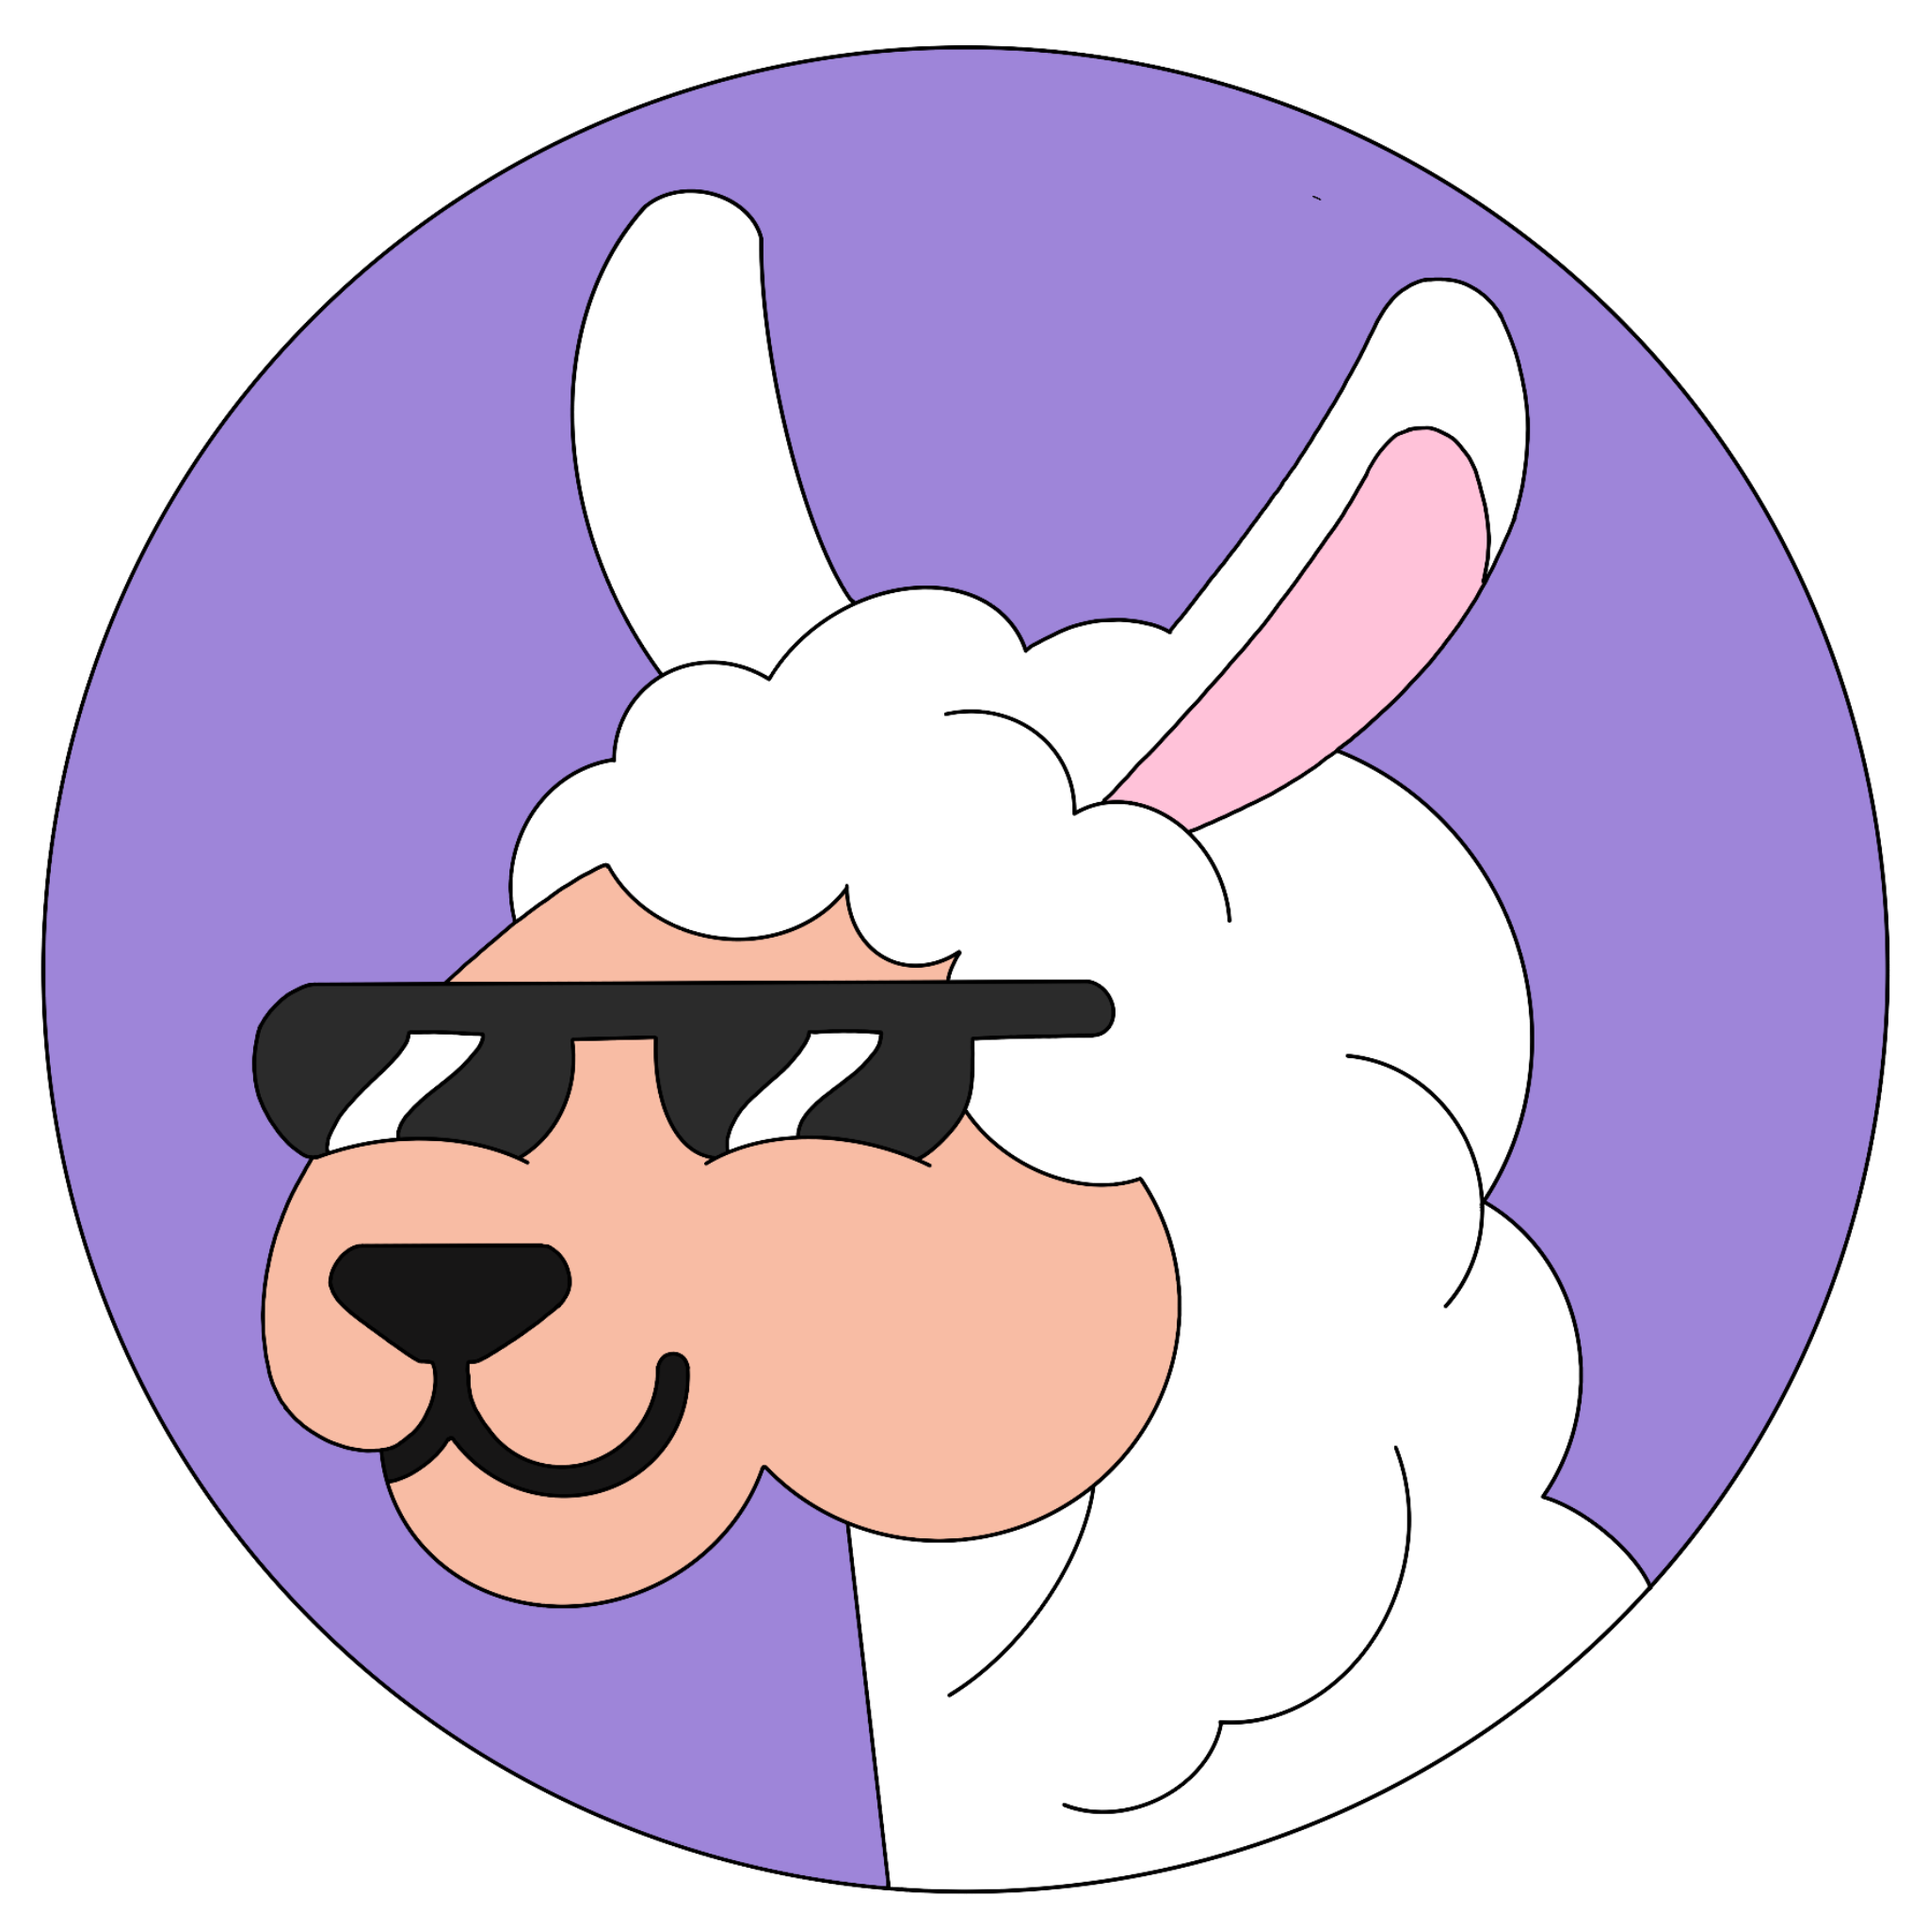
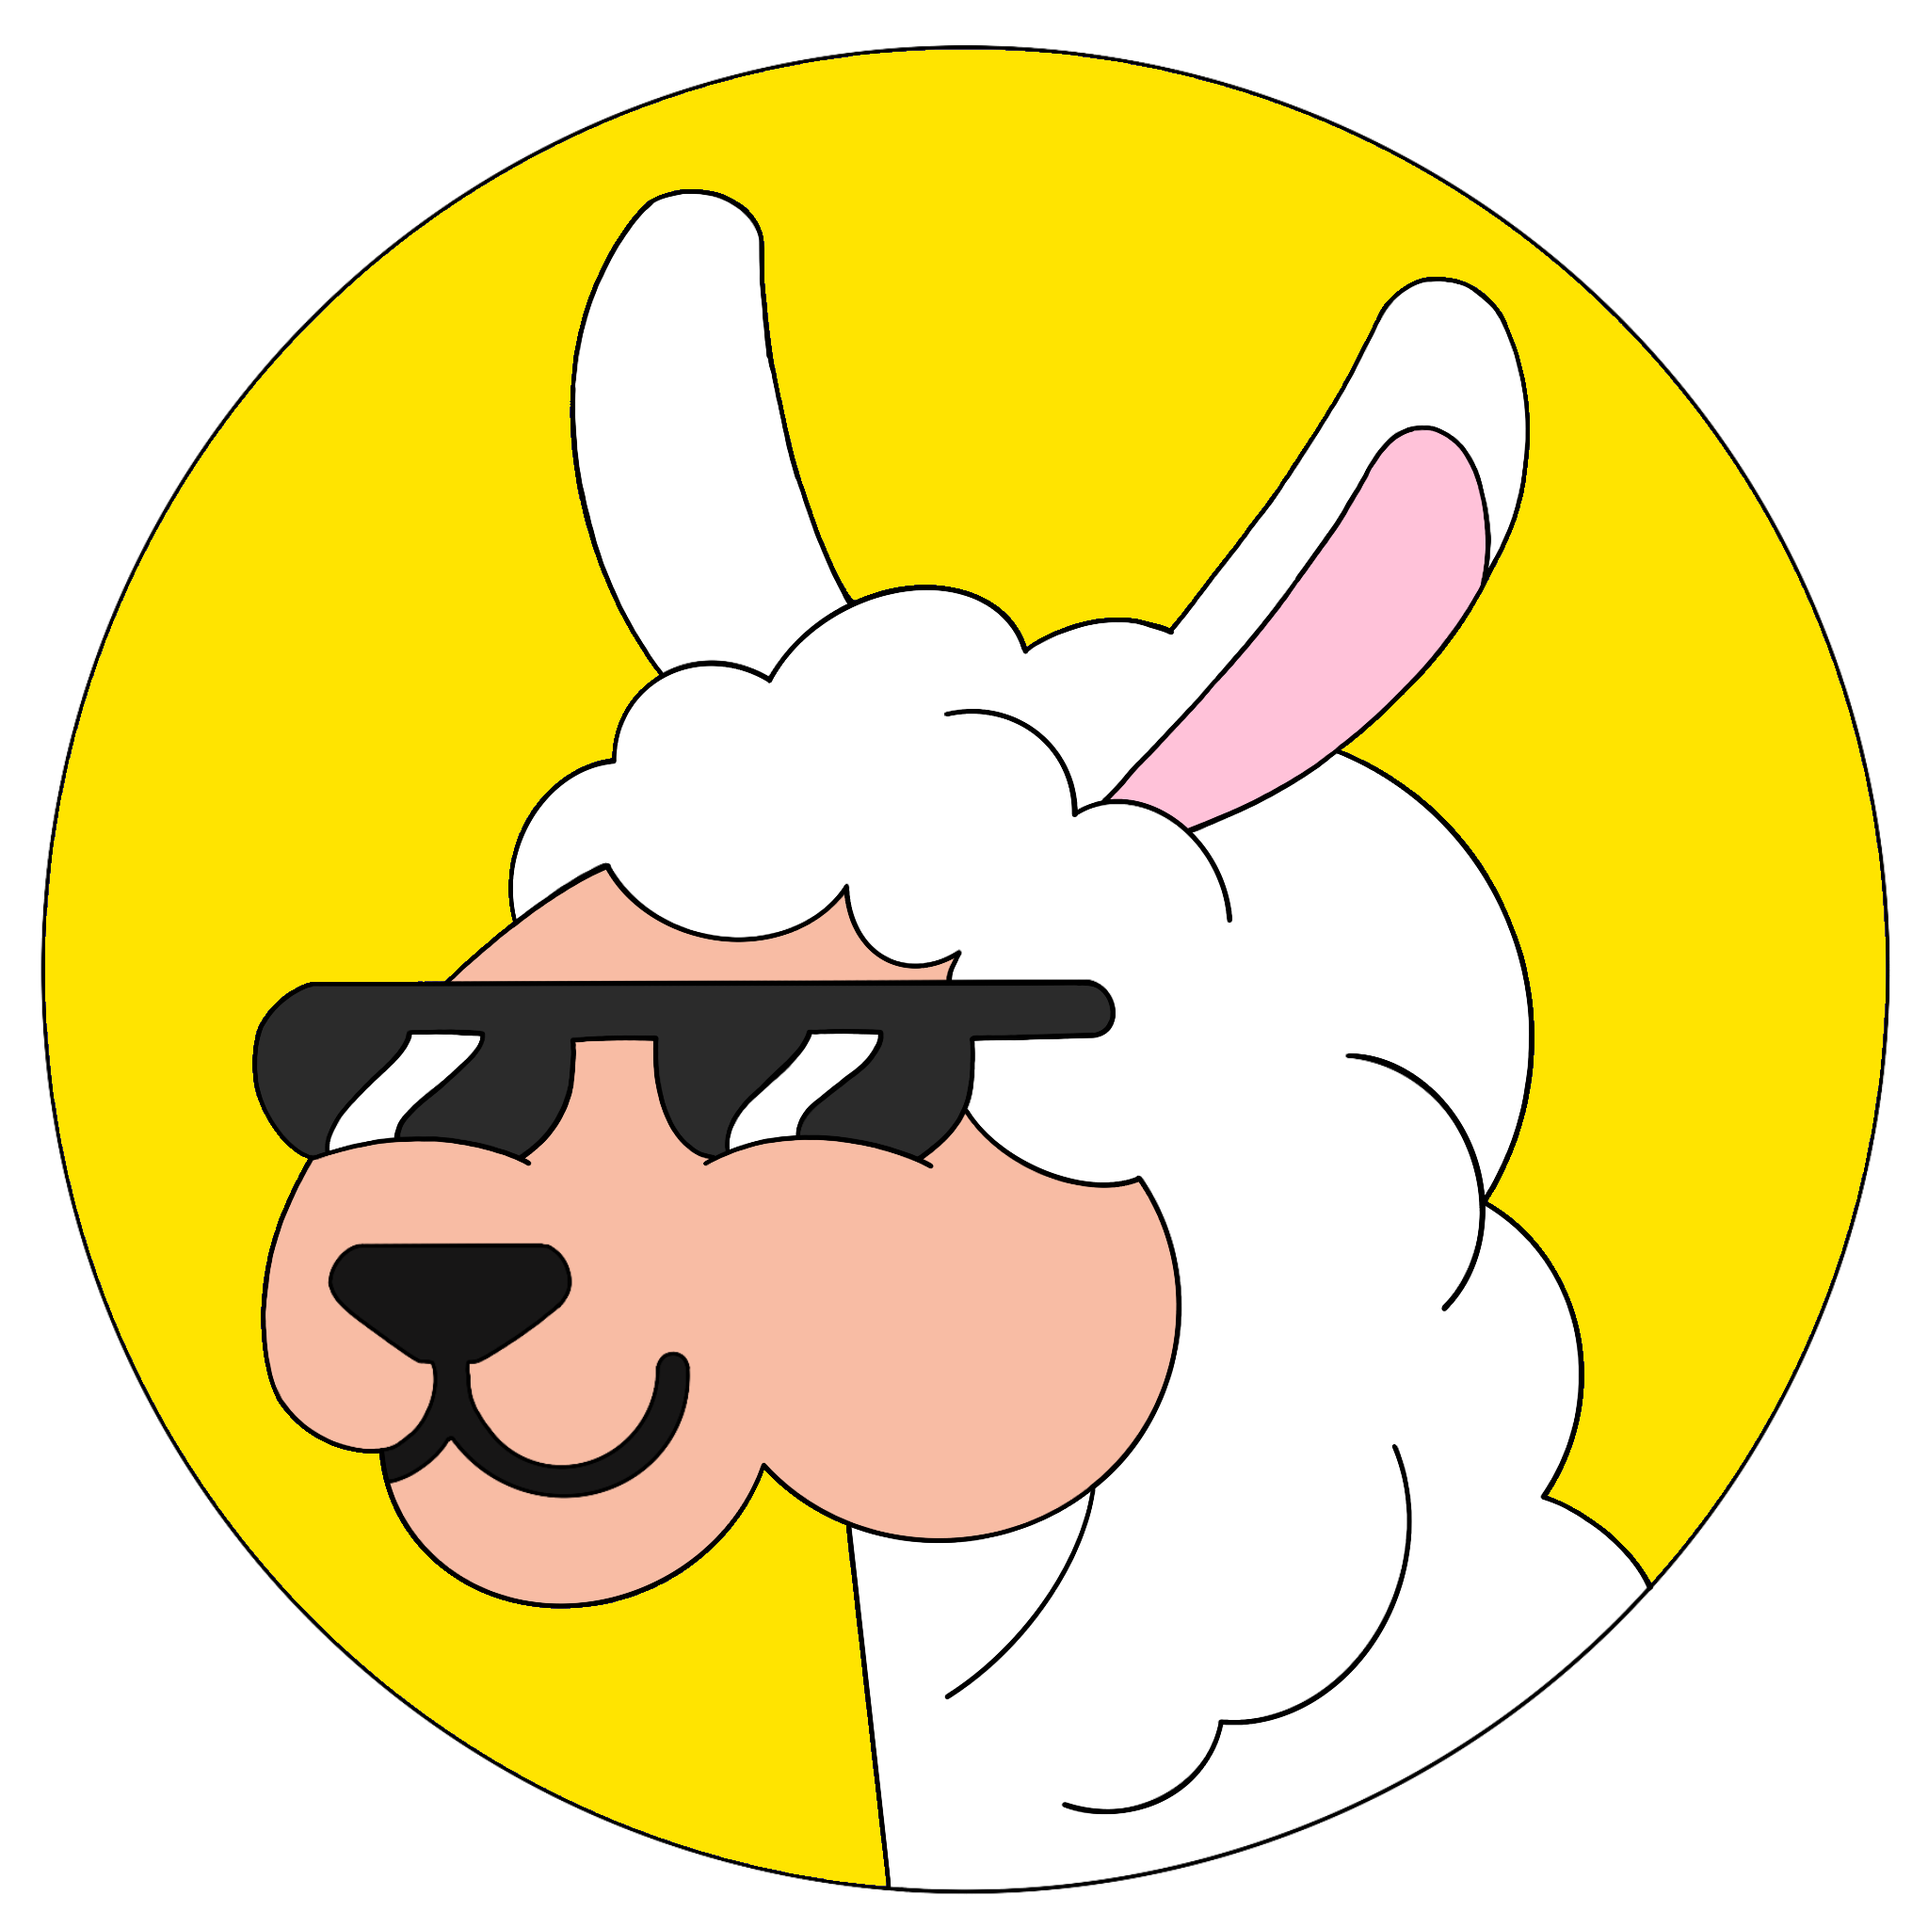
Add a read more button and update profile

diff --git a/assets/main.css b/assets/main.css
@@ -13,13 +13,14 @@ h4,
 p,
 ul,
 ol,
-li {
+li,
+a {
   font-family: "Lora", serif;
 }
 
 a {
   text-decoration: none;
-  color: rgb(61, 146, 201);
+  color: #000;
 }
 
 a:hover,
@@ -167,7 +168,7 @@ footer .pure-menu-link:hover {
 
 .nav-item a {
   background: transparent;
-  border: 2px solid rgb(195, 176, 219);
+  border: 2px solid gray;
   color: #fff;
   margin-top: 1em;
   margin-right: 5px;
@@ -178,7 +179,7 @@ footer .pure-menu-link:hover {
 
 .nav-item a:hover,
 .nav-item a:focus {
-  border: 2px solid rgb(61, 70, 201);
+  border: 2px solid #fff;
   text-decoration: none;
 }
 
@@ -250,7 +251,7 @@ footer .pure-menu-link:hover {
 .post-meta {
   font-family: "Open Sans", sans-serif;
   color: #444;
-  margin: 0;
+  /* margin: 0; */
 }
 
 .post-meta a {
@@ -285,7 +286,7 @@ footer .pure-menu-link:hover {
 .post-description {
   color: black;
   line-height: 1.8em;
-  margin-top: -15px;
+  /* margin-top: -15px; */
 }
 
 .archive-links {
@@ -409,7 +410,7 @@ footer .pure-menu-link:hover {
 }
 
 .jekyll-header:hover {
-  color: #6f1f91;
+  color: black;
 }
 
 .content {
@@ -478,23 +479,23 @@ footer ul {
 }
 
 .hashtags i {
-  color: #6f1f91;
+  color: #9f00b8;
 }
 
 .categories i {
-  color: #3878a0;
+  color: #006eb8;
 }
 
 .archive i {
-  color: #56712d;
+  color: #00b816;
 }
 
 .rss i {
-  color: #cfa531;
+  color: #FFE400;
 }
 
 .donate i {
-  color: #da6064;
+  color: #b80031;
 }
 
 /* SEARCH */
@@ -526,4 +527,29 @@ footer ul {
   margin-left: auto;
   margin-right: auto;
   width: 80%;
+}
+
+a.black-button {
+  display:inline-block;
+  padding:0.35em 1.2em;
+  border:0.1em solid black;
+  margin:0 0.3em 0.3em 0;
+  border-radius:0.12em;
+  box-sizing: border-box;
+  text-decoration:none;
+  font-weight:300;
+  color:black;
+  text-align:center;
+  transition: all 0.2s;
+}
+a.black-button:hover {
+  color: #fff;;
+  background-color:black;
+}
+
+@media all and (max-width:30em) {
+  a.black-button {
+  display:block;
+  margin:0.4em auto;
+  }
 }

diff --git a/_layouts/home.html b/_layouts/home.html
@@ -52,6 +52,7 @@ layout: default
                         <em>{{ post.content | strip_html | escape | truncate: 300}}</em>
                     </p>
                 </div>
+                <a href="{{ post.url | relative_url }}" class="black-button">Read more</a>
             </section>
         {%- endfor -%}
     </div>
